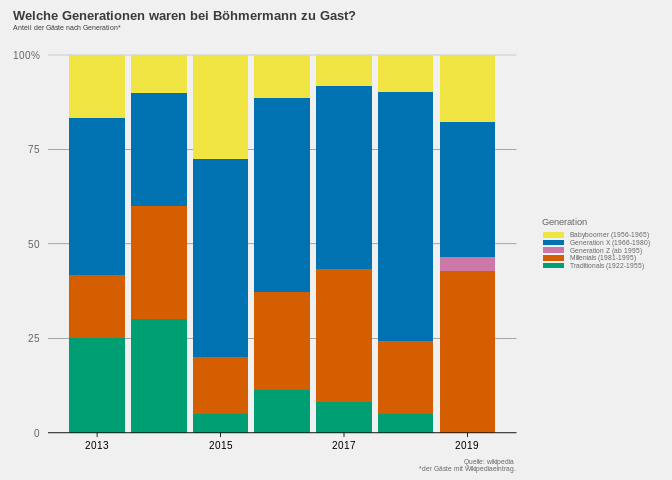
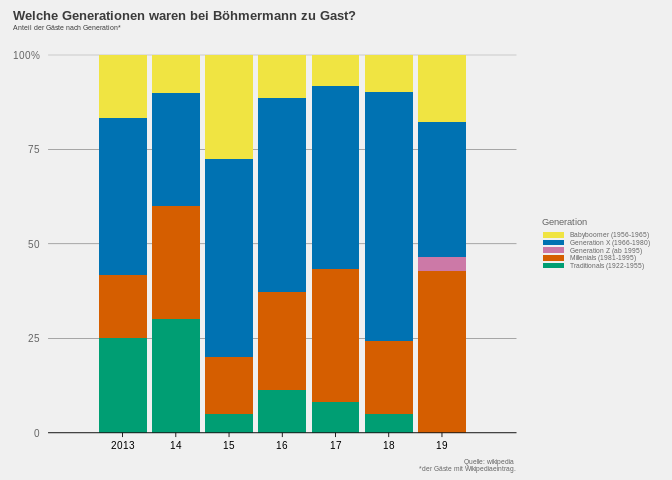
changed scaling of x-axis to: 2013, 14, 15...

diff --git a/README.md b/README.md
@@ -79,7 +79,7 @@ data %>%
   annotate("text", label = "Neo Magazin Royale", x = 2015.3, y = 95, size = 2, colour = "black") +
   annotate("text", label = "Neo Magazin", x = 2013.3, y = 95, size = 2, colour = "black") +
   scale_y_continuous(limits = c(0, 100.1), breaks = c(seq(25,100,25)) , expand = c(0, 0),  labels=c("25"="25","50"="50","75"="75","100" =       "100%")) +
-  scale_x_continuous(breaks = seq(2013, 2019, by = 2), limits=c(2013,2019)) +
+  scale_x_continuous(breaks = seq(2013, 2019, by = 1), limits=c(2013,2019),  labels=c("2013"="2013","2014"="14","2015"="15","2016"="16","2017"="17","2018"="18","2019"="19")) +
   geom_vline(xintercept=c(2014.5), linetype="dotted", size= 0.25, color="#656565") +
   scale_color_manual(breaks=c("entertainment","media","politics","others"), values=c("#E69F00", "#56B4E9", "#009E73", "#F0E442")  ,labels = c("Unterhaltung", "Medien", "Politik","Andere"), name = "Kategorie") + 
   labs(title = "Wer war bei Böhmermann zu Gast?", subtitle="Anteil der Gäste nach Beruf und Jahr in Prozent*", caption = "Quelle: wikipedia \n *der Gäste mit Wikipediaeintrag.") +
@@ -94,7 +94,7 @@ data %>%
 ggplot(data, aes(x=year, y=guests_episode,group=1))  +   
   geom_line(aes(group=1), color="#009E73") +
   scale_y_continuous(limits = c(0, 2.1),breaks = c(seq(0,2,0.5)), expand = c(0, 0), labels=c("0.0" = "", "0.5"="0,5", "1.0"="1", "1.5"= "1,5", "2.0"="2 Gäste")) +
-  scale_x_continuous(breaks = seq(2013, 2019, by = 2), limits=c(2013,2019)) +
+ scale_x_continuous(breaks = seq(2013, 2019, by = 1), limits=c(2013,2019), labels=c("2013"="2013","2014"="14","2015"="15","2016"="16","2017"="17","2018"="18","2019"="19")) +
   geom_vline(xintercept=c(2014.5), linetype="dotted", size= 0.25) +
   labs(title = "Mit wie vielen Gästen unterhielt sich Böhmermann?", subtitle="Gäste pro Folge nach Jahr", caption = "Quelle: wikipedia") +
   hp_theme() + theme(axis.text= element_text(size=7.5), axis.title.x = element_blank(),plot.title.position = "plot",  axis.title.y = element_blank(), panel.grid.major.x = element_blank(), panel.grid.major.y = element_line(size=.2, color="#656565"), axis.line.x=element_line( size=.3, color="black"), legend.position = "right", legend.key = element_blank(), axis.ticks.y = element_blank(), axis.ticks.x =element_line( size=.3, color="black"), plot.caption=element_text(size=5), axis.text.x=element_text(color="black"))
@@ -108,7 +108,7 @@ ggplot(data, aes(x=year, y=guests_episode,group=1))  +
 ggplot(data, aes(x=year, y=mean_age,group=1))+
   geom_line(aes(group=1), color="#009E73") +
   scale_y_continuous(limits = c(30, 50.1), breaks = c(seq(30,50,5)) , expand = c(0, 0), labels=c("30"="","35"="35","40"="40","45"="45","50"="50 Jahre")) +
-  scale_x_continuous(breaks = seq(2013, 2019, by = 2), limits=c(2013,2019)) +
+  scale_x_continuous(breaks = seq(2013, 2019, by = 1), limits=c(2013,2019),  labels=c("2013"="2013","2014"="14","2015"="15","2016"="16","2017"="17","2018"="18","2019"="19")) +
   geom_vline(xintercept=c(2014.5), linetype="dotted", size= 0.25, color="#656565") +
   labs(title = "Werden die Gäste Böhmermanns jünger?", subtitle="Durchschnittsalter der Gäste nach Jahr*", caption = "Quelle: wikipedia \n *der Gäste mit Wikipediaeintrag.") +
   hp_theme() + theme(axis.text= element_text(size=7.5), axis.title.x = element_blank(), plot.title.position = "plot", axis.title.y = element_blank(), panel.grid.major.x = element_blank(), panel.grid.major.y = element_line(size=.2, color="#656565"), axis.line.x=element_line( size=.3, color="black"), legend.position = "right", legend.key = element_blank(), axis.ticks.y = element_blank(), axis.ticks.x =element_line( size=.3, color="black"), plot.caption=element_text(size=5), axis.text.x=element_text(color="black"))
@@ -122,7 +122,7 @@ ggplot(data, aes(x=year, y=mean_age,group=1))+
 ggplot(data, aes(x=year, y=women,group=1)) + 
   geom_line(aes(group=1), color="#009E73") +
   scale_y_continuous(limits = c(0, 50.1), breaks = c(seq(10,50,10)) , expand = c(0, 0), labels=c("10"="10","20"="20","30"="30","40"="40","50"   = "50%")) +
-  scale_x_continuous(breaks = seq(2013, 2019, by = 2), limits=c(2013,2019)) +
+  scale_x_continuous(breaks = seq(2013, 2019, by = 1), limits=c(2013,2019),  labels=c("2013"="2013","2014"="14","2015"="15","2016"="16","2017"="17","2018"="18","2019"="19")) +
   geom_vline(xintercept=c(2014.5), linetype="dotted", size= 0.25, color="#656565") +
   labs(title = "Diskriminiert Böhermann Frauen?", subtitle="Anteil Frauen an der Gesamtzahl der Gäste in Prozent*", caption = "Quelle: wikipedia \n *der Gäste mit Wikipediaeintrag.") +
   hp_theme() + theme(axis.text= element_text(size=7.5), axis.title.x = element_blank(), plot.title.position = "plot", axis.title.y = element_blank(), panel.grid.major.x = element_blank(), panel.grid.major.y = element_line(size=.2, color="#656565"), axis.line.x=element_line( size=.3, color="black"), legend.position = "right", legend.key = element_blank(), axis.ticks.y = element_blank(), axis.ticks.x =element_line( size=.3, color="black"), plot.caption=element_text(size=5), axis.text.x=element_text(color="black"))
@@ -138,7 +138,7 @@ data %>%
   gather(generation ,percent, traditionals:gen_z) %>%
   ggplot(aes(fill=generation, y=percent, x=year)) + 
   geom_bar(position="fill", stat="identity")+
-  scale_x_continuous(breaks = seq(2013, 2019, by = 2)) +
+  scale_x_continuous(breaks = seq(2013, 2019, by = 1), limits=c(2012,2020),  labels=c("2013"="2013","2014"="14","2015"="15","2016"="16","2017"="17","2018"="18","2019"="19")) +
   scale_y_continuous(expand = c(0,0),breaks = c(seq(0,1,0.25)) , labels = c("0","25","50","75","100%")) +
   scale_fill_manual("Generation", values = c("traditionals"="#009E73","babyboomer"="#F0E442","gen_x"="#0072B2","millenials"="#D55E00","gen_z"="#CC79A7"),labels=c("traditionals"="Traditionals (1922-1955)","babyboomer"="Babyboomer (1956-1965)","gen_x"="Generation X (1966-1980)","millenials"="Millenials (1981-1995)","gen_z"="Generation Z (ab 1995)")) +
   labs(title = "Welche Generationen waren bei Böhmermann zu Gast?", subtitle="Anteil der Gäste nach Generation*", caption = "Quelle: wikipedia \n *der Gäste mit Wikipediaeintrag.") +
